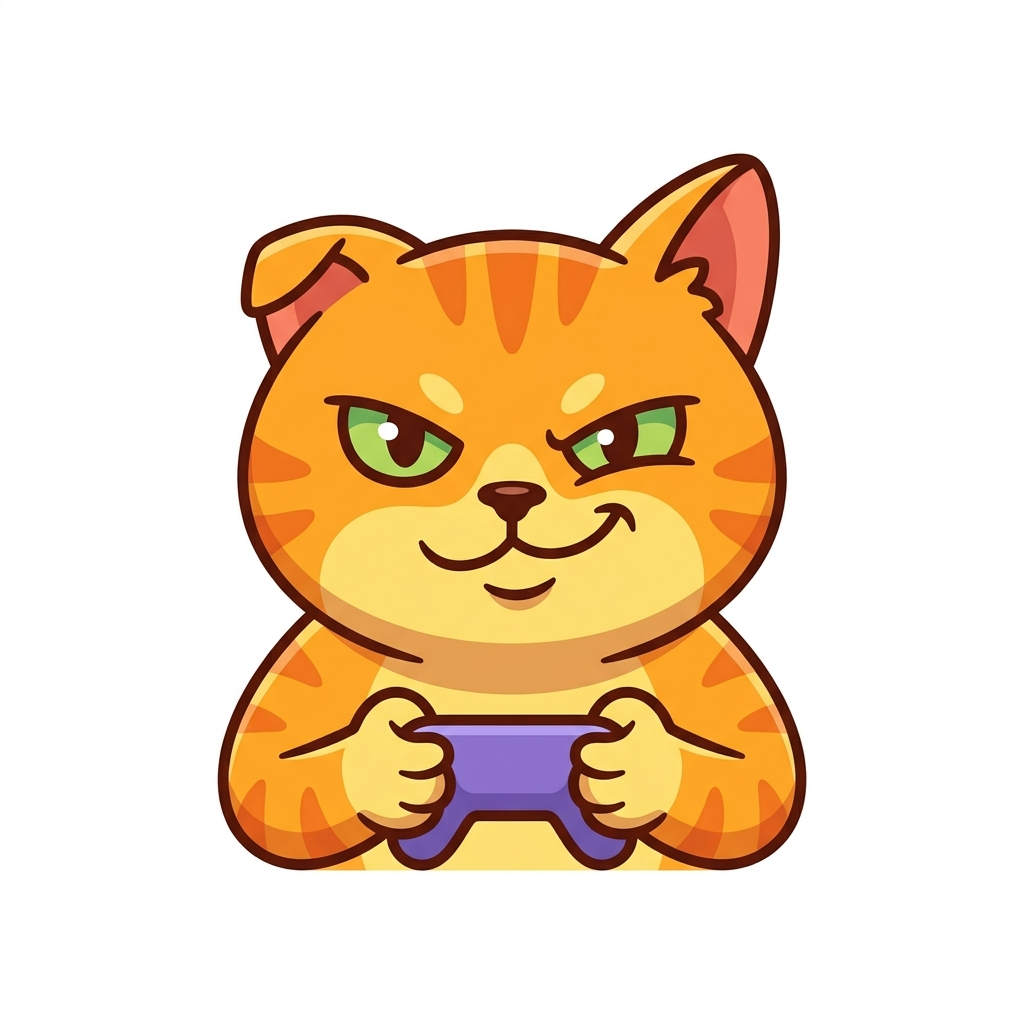
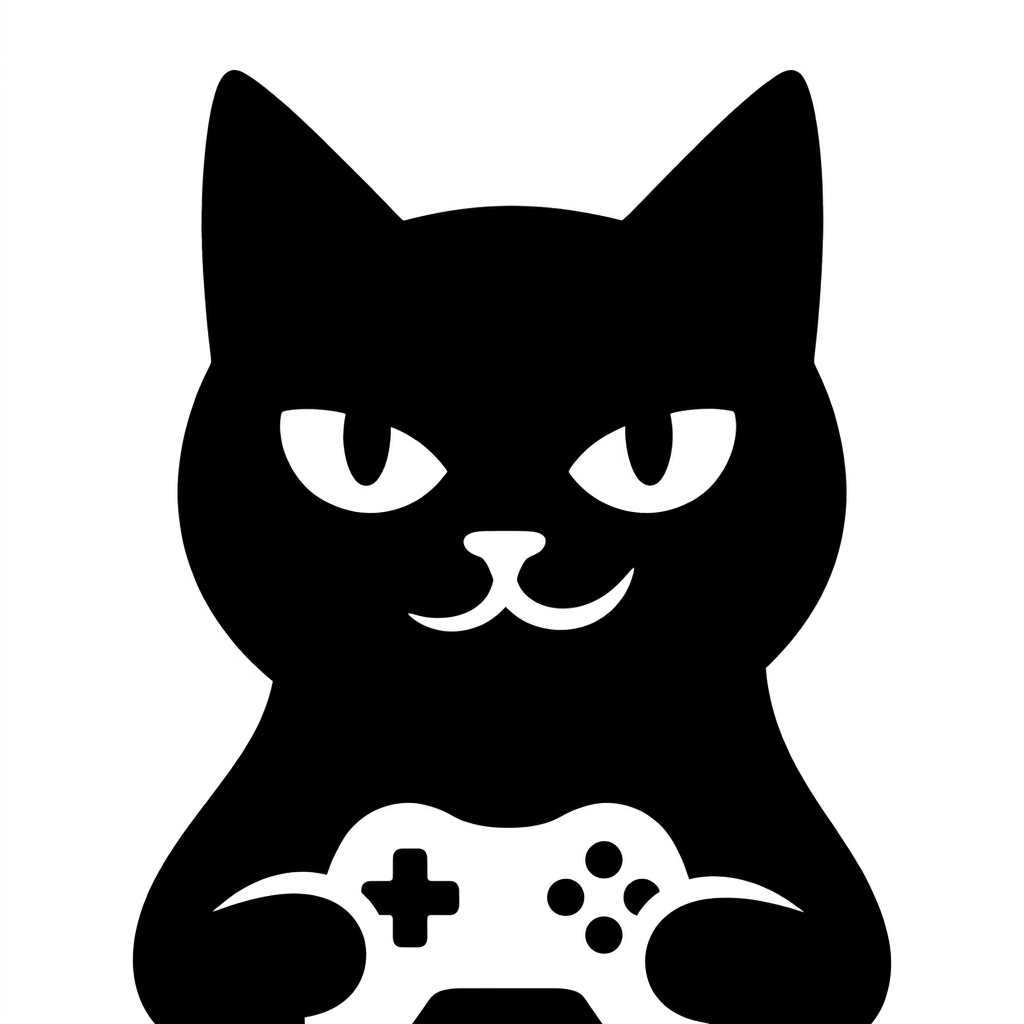
feat: Gat 마스코트 아이콘 최종 적용
- gat-face.png: 얼굴 클로즈업 (사이드바 상단 로고용)
- gat-mascot.png: 패드 들고 있는 전신 (About 다이얼로그용)
- 검은 실루엣 + 능글맞은 눈 스타일

diff --git a/packages/frontend/src/components/layout/NavigationRail.tsx b/packages/frontend/src/components/layout/NavigationRail.tsx
@@ -99,7 +99,7 @@ const NavigationRail: React.FC<NavigationRailProps> = ({
           }}
         >
           <img
-            src="/images/gat-mascot.png"
+            src="/images/gat-face.png"
             alt="Gatrix"
             style={{ width: '100%', height: '100%', objectFit: 'cover' }}
           />